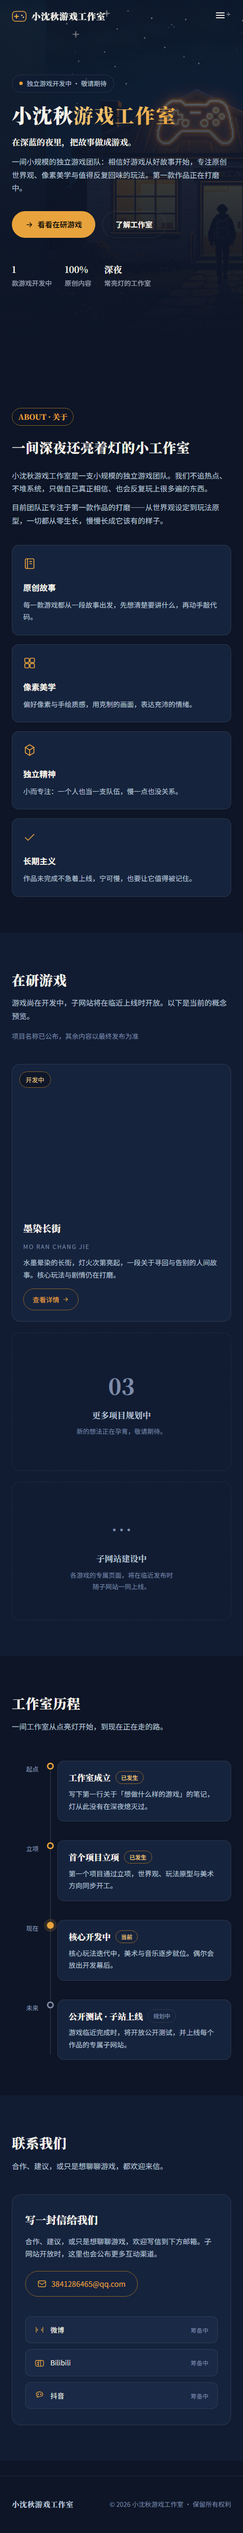
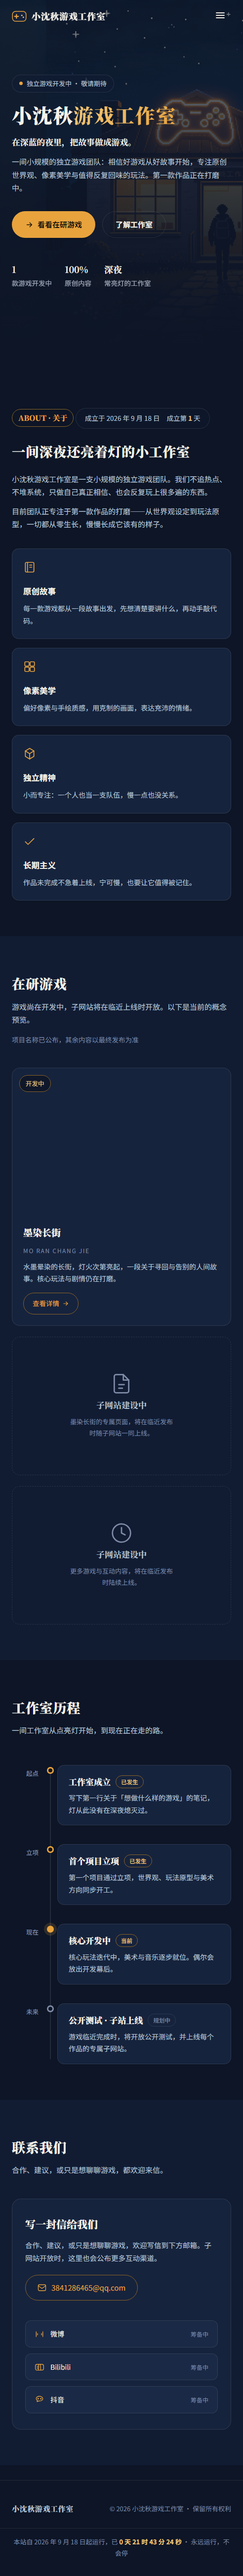
Add files via upload

diff --git a/index.html b/index.html
@@ -165,6 +165,12 @@
     display:inline-block;font-family:var(--font-serif);font-weight:900;font-size:15px;color:var(--amber);
     border:1px solid var(--amber-dim);padding:4px 12px;border-radius:999px;margin-bottom:20px;
   }
+  .since{
+    display:inline-flex;flex-wrap:wrap;gap:8px 14px;align-items:center;
+    border:1px solid var(--line);border-radius:999px;padding:8px 18px;
+    font-size:13.5px;color:var(--ink-2);background:rgba(17,28,51,.4);margin-bottom:22px;
+  }
+  .since b{color:var(--amber-2);font-weight:700}
   .feat-list{display:grid;grid-template-columns:1fr 1fr;gap:18px}
   .feat{
     background:var(--card);border:1px solid var(--line);border-radius:var(--radius);
@@ -274,6 +280,8 @@
   footer{border-top:1px solid var(--line);padding:34px 0;margin-top:30px}
   .foot{display:flex;flex-wrap:wrap;gap:12px;align-items:center;justify-content:space-between;color:var(--ink-3);font-size:13px}
   .foot .brand{font-size:15px;color:var(--ink-2)}
+  .uptime{margin-top:16px;padding-top:16px;border-top:1px solid var(--line);text-align:center;color:var(--ink-3);font-size:13px}
+  .uptime b{color:var(--amber-2);font-weight:700;font-variant-numeric:tabular-nums}
 
   /* ===== Toast ===== */
   .toast{
@@ -348,6 +356,10 @@
     <div class="about-grid">
       <div class="about-aside">
         <span class="mark">ABOUT · 关于</span>
+        <div class="since">
+          <span>成立于 2026 年 9 月 18 日</span>
+          <span>成立第 <b id="sinceDays">1</b> 天</span>
+        </div>
         <h2 class="section-title">一间深夜还亮着灯的小工作室</h2>
         <p style="margin-top:20px">小沈秋游戏工作室是一支小规模的独立游戏团队。我们不追热点、不堆系统，只做自己真正相信、也会反复玩上很多遍的东西。</p>
         <p style="margin-top:12px">目前团队正专注于第一款作品的打磨——从世界观设定到玩法原型，一切都从零生长，慢慢长成它该有的样子。</p>
@@ -512,6 +524,9 @@
     <span class="brand">小沈秋游戏工作室</span>
     <span>© 2026 小沈秋游戏工作室 · 保留所有权利</span>
   </div>
+  <div class="wrap uptime">
+    <span>本站已运行 <b id="uptime">0 天 00 时 00 分 00 秒</b> · 永远运行，不会停</span>
+  </div>
 </footer>
 
 <div class="toast" id="toast" role="status" aria-live="polite"></div>
@@ -582,6 +597,30 @@
       frag.appendChild(s);
     }
     stars.appendChild(frag);
+
+    // 成立时间与本站运行时间
+    // 成立起点：2026-09-18 00:00 +08:00；运行时间：从页面加载（本站开始运行）那一刻起算
+    var startTime = Date.now();
+    var sinceStart = new Date('2026-09-18T00:00:00+08:00').getTime();
+    function pad2(n){ return n < 10 ? '0' + n : n; }
+    function tickTime(){
+      var now = Date.now();
+      var sinceEl = document.getElementById('sinceDays');
+      if (sinceEl){
+        sinceEl.textContent = Math.floor((now - sinceStart) / 86400000) + 1;
+      }
+      var upEl = document.getElementById('uptime');
+      if (upEl){
+        var diff = Math.max(0, now - startTime);
+        var d = Math.floor(diff / 86400000);
+        var h = Math.floor(diff % 86400000 / 3600000);
+        var m = Math.floor(diff % 3600000 / 60000);
+        var s = Math.floor(diff % 60000 / 1000);
+        upEl.textContent = d + ' 天 ' + pad2(h) + ' 时 ' + pad2(m) + ' 分 ' + pad2(s) + ' 秒';
+      }
+    }
+    tickTime();
+    setInterval(tickTime, 1000);
   })();
 </script>
 </body>
